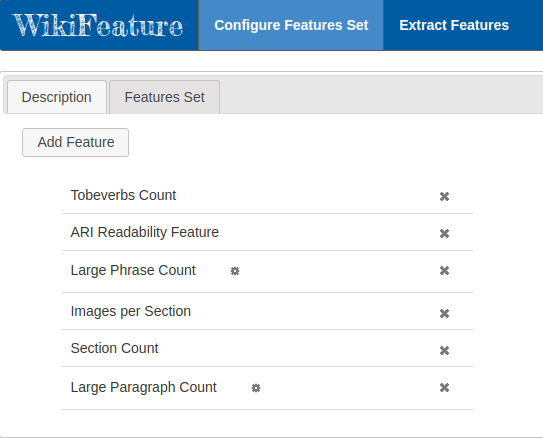
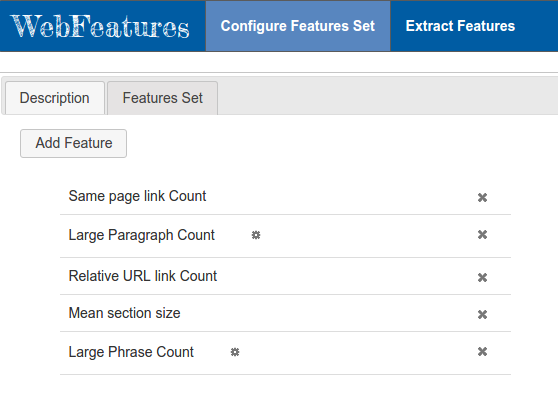
Correções pequenos bugs feature set

diff --git a/wiki-quality-web/templates/content/feature_set_update_insert.html b/wiki-quality-web/templates/content/feature_set_update_insert.html
@@ -27,7 +27,7 @@
   <div id="tabs-1">
   	<div class="col-md-6">	
   		{% if object.id %}
-  				<form id="updateFeatureForm" action="{% url "feature_set_edit" object.nam_feature_set %}" method="post">{% csrf_token %}
+  				<form id="updateFeatureForm" onsubmit="return false"  action="{% url "feature_set_edit" object.nam_feature_set %}" method="post">{% csrf_token %}
   			{% else %}
   				<form id="updateFeatureForm" onsubmit="return false" action="{% url "feature_set_insert" %}" method="post">{% csrf_token %}
   		{% endif %}
@@ -53,10 +53,10 @@
 	            {% endfor %}
 	            
 			<p>&nbsp;
-			Share the feature set. 
-			When checked, everyone can have access to this feature set by using the following link: <a id="anc" href="{% url "public_extract_features" user.get_username object.nam_feature_set %}">http://{{request.get_host}}/p/{{user.get_username}}/<span id="pub_feat_set_name">{{object.nam_feature_set}}</span></a></p>
+			Share the feature set. <span id="sharing_link" class="{%if not object.id %}invisible{%endif%}">Sharing link: <a id="anc" href="{% url "public_extract_features" user.get_username object.nam_feature_set %}">http://{{request.get_host}}/p/{{user.get_username}}/<span id="pub_feat_set_name">{{object.nam_feature_set}}</span></a></span></p>
 	    		<button type="submit" id="saveButton" class="ui-button ui-widget ui-corner-all">Save</button>
 	    		<input type="button" class="ui-button ui-widget ui-corner-all" onclick="cancelEditFeature()" value = "Cancel" />
+			<input type="hidden" value="{{object.nam_feature_set}}" id="last_saved_name">
 		</form>
 	</div>
 </div>
@@ -67,14 +67,14 @@
   
   <!-- form create/update via ajax --> 
   <script>
-  		let href_button_clicked = "";
-
-		$("#id_nam_feature_set").keyup(function(){
-			let strFeatureSetName = $("#id_nam_feature_set")[0].value;
+  		function changeShareURL(){
+  			let strFeatureSetName = $("#id_nam_feature_set")[0].value;
 			$("#pub_feat_set_name").html(strFeatureSetName);
 			$("#anc")[0].href = "{% url "public_extract_features" user.get_username "" %}"+strFeatureSetName;
-			
-		}); 
+  		}
+  		let href_button_clicked = "";
+
+
 		
   		$("#updateFeatureForm").change(function() {
 		   $("#updateFeatureForm").data("changed",true);
@@ -154,23 +154,22 @@
   		});
   		
 		function salveData(){
-			let idNamFeaturesSet = "{{object.nam_feature_set}}";
+			let idNamFeaturesSet = $("#last_saved_name")[0].value;
 		  	let arrElementsFeatureSet = [];
 		  	let arrCreateElementsFeatureSet = [];
 		  	
 			arrElementsFeatureSet.push({"id_nam_feature_set":idNamFeaturesSet,"nam_feature_set": $('#id_nam_feature_set').val(),"dsc_feature_set":$('#id_dsc_feature_set').val(), "language":$('#id_language').val()});
 			arrCreateElementsFeatureSet.push({"nam_feature_set": $('#id_nam_feature_set').val(),"dsc_feature_set":$('#id_dsc_feature_set').val(), "language":$('#id_language').val()});
 		
-			{% if object.id %}
+			if(boolSave){
 				
 				updateFeatureSet(arrElementsFeatureSet);
 				
-				{% else %}
+			}else{
 				createFeatureSet(arrCreateElementsFeatureSet);
 	  			boolSave = true;	  		
-	  			
-	  		{% endif %}	
-		}
+	  		}		
+	 	}
 		  		
 	  	$( "#saveButton" ).click(function() {
 	  		salveData();
@@ -183,8 +182,12 @@
 				  type: "POST",
 			  	  data: { "arrCreateElementsFeatureSet" : JSON.stringify(arrCreateElementsFeatureSet)},
 				  success: function(response) {
-				  		let name_feature = response.arrCreateFeatureSet;
+				  		$("#last_saved_name")[0].value = response.arrCreateFeatureSet["nam_feature_set"];
 				  		gUsedFeaturesNames = {};
+				  		changeShareURL();
+				  		alert("Feature set description saved");
+				  		$("#sharing_link").removeClass("invisible");
+				  		
 				  },
 				  error: function(xhr,status,error){
 				  		alert("An error occured when trying to save the new configurations:\n"+error);
@@ -200,6 +203,8 @@
 			  	  data: { "arrEditElementsFeatureSet" : JSON.stringify(arrElementsFeatureSet)},
 				  success: function(response) {
 				  		console.log("It is working");
+				  		changeShareURL();
+				  		alert("Feature set description saved");
 				  },
 				  error: function(xhr,status,error){
 				  		alert("An error occured when trying to save the new configurations:\n"+error);

diff --git a/wiki-quality-web/templates/content/dataset_list.html b/wiki-quality-web/templates/content/dataset_list.html
@@ -11,12 +11,11 @@
 		<div id="modal"></div>
 		<div id="feature_set_list">
 			{% if feature_set_to_use and feature_set_to_use != "NOT_FOUND" %}
-				<h2>Feature set: {{ feature_set_to_use.nam_feature_set }} </h2>
 				
-				<p><label>Language: </label><span>feature_set_to_use.language.value</span></p>
+				<p><label>Language: </label><span> {{ feature_set_to_use.language.value }}</span></p>
 				
-				<label>Description/Parameters: </label>
-				<p id="feature-description">
+				<label>Description: </label>
+				<span id="feature-description">
 					{{ feature_set_to_use.dsc_feature_set }}
 				</p>
 				
@@ -24,7 +23,7 @@
 					<table>
 					<tr>
 						<th>Feature Name</th>
-						<th>Description</th>
+						<th>Description/Parameters</th>
 					</tr>
 						{% for feature in feature_set_to_use.arr_features|dictsort:"ord_feature" %}
 						<tr>
@@ -36,7 +35,7 @@
 															<label>Parameters:</label> 
 															<p class="paramTableDataset"> 
 															{% for param in feature.arr_param %} 
-																<span><strong>{{ param.nam_argument }}</strong>: {{ param.val_argument }}</span> 
+																<span><strong>{{ param.nam_argument }}</strong>: {{ param.val_argument }}</span>{% if param.dsc_argument %} <span title="{{ param.dsc_argument }}" class="ui-icon ui-icon-help"></span> {% endif %}
 															{% endfor %}
 															</p> 
 														{% endif %}
@@ -67,11 +66,20 @@
 					{% endifequal %}
 					<div>
 						{% if field.label == "Feature set" and feature_set_to_use and feature_set_to_use != "NOT_FOUND"%}
+						
 						  <button id="show_featureset" class="right-ico ui-button ui-widget ui-corner-all">
 						    <span class="btnTextLeft">{{ feature_set_to_use.nam_feature_set }}</span><span class="ui-icon ui-icon-search"></span> 
 						  </button>
+						  <input type="hidden" value="{{feature_set_to_use.id}}" id="{{field.id_for_label}}" name="{{field.html_name}}">
+						  <input type="hidden" value="{{feature_set_to_use.nam_feature_set}}" id="featureSetName" name="featureSetName">
 							
 							
+							{% if not feature_set_to_use.bol_is_public %}
+								<p class="ui-state-highlight ui-corner-all">
+								<span class="ui-icon ui-icon-info"></span>
+									This feature set is not public. If you want to share this feature set, please check this option <a href="{% url "feature_set_edit" feature_set_to_use.nam_feature_set%}">in the configuration of this feature set</a>.
+								</p>
+							{% endif %}
 						{% else %}
 							{% if field.label == "Feature set" and feature_set_to_use == "NOT_FOUND" %}
 								<script>
@@ -124,7 +132,11 @@
 						<td></td>
 					{% endifequal %}
 					<td>
-						<form action="{% url "dataset_delete" dataset.id %}" method="post">
+						{% if feature_set_to_use %}
+							<form action="{% url "dataset_delete_public" feature_set_to_use.username feature_set_to_use.nam_feature_set dataset.id%}" method="post">
+						{% else %}
+							<form action="{% url "dataset_delete" dataset.id %}" method="post">
+						{% endif %}
 							{% csrf_token %}
          					<button class="btn btn-danger" id="delete">Delete</button>
          				</form>

diff --git a/wiki-quality-web/wqual/static/js/insert_used_feature.js b/wiki-quality-web/wqual/static/js/insert_used_feature.js
@@ -231,7 +231,10 @@ function insert_feature_is_configurable(arrParams, idDivForms, featureName, used
 		
 		let HTMLEl_temp_label = document.createElement('span');
 		let HTMLEl_temp_value_argument = document.createElement('input');
-				
+		let elDscArgument = document.createElement('p');
+		$(elDscArgument).addClass("infobox");
+		$(elDscArgument).addClass("ui-corner-all");
+		let bolHasDscArgument = false;
 		for(key in arrParams[foreignKey]){
 			
 			if(key == 'id'){
@@ -246,8 +249,11 @@ function insert_feature_is_configurable(arrParams, idDivForms, featureName, used
 				val_argument = arrParams[foreignKey][key];		
 			}
 			
-			if(key == 'desc_argument'){
-				HTMLEl_temp_value_argument.title = arrParams[foreignKey][key];		
+			if(key == 'dsc_argument'){
+				elDscArgument.innerHTML = arrParams[foreignKey][key];
+				if(arrParams[foreignKey][key].trim().length > 0){
+					bolHasDscArgument = true;
+				}		
 			}
 			
 			if(key == 'type_argument'){
@@ -288,6 +294,9 @@ function insert_feature_is_configurable(arrParams, idDivForms, featureName, used
 		HTMLEl_temp_label.setAttribute('class', 'labelForm');
 		
 		HTMLEl_temp_form.appendChild(HTMLEl_temp_label);
+		if(bolHasDscArgument){
+			HTMLEl_temp_form.appendChild(elDscArgument);
+		}
 		HTMLEl_temp_form.appendChild(HTMLEl_temp_value_argument);
 	}	
 		HTMLEl_temp_form.appendChild(HTMLEl_temp_space);

diff --git a/wiki-quality-web/templates/bases/base_main_site.html b/wiki-quality-web/templates/bases/base_main_site.html
@@ -10,7 +10,7 @@
     <script src="{% static "js/jquery.min.js" %}"></script>
     <script src="{% static "js/jquery-ui.js" %}"></script>
     <script src="{% static "js/jquery-ui.min.js" %}"></script>
-	<script src="{% static "js/featureSetConfigUpdate.js" %}">
+	<script src="{% static "js/featureSetConfigUpdate.js" %}"></script>
     <script src="{% static "js/wqual.js" %}"></script>
     <link rel="stylesheet" href="{% static "css/wikiQuality.css" %}">
 	<link href="https://fonts.googleapis.com/css?family=Fredericka+the+Great" rel="stylesheet">
@@ -30,7 +30,7 @@
                     <span class="icon-bar"></span>
                     <span class="icon-bar"></span>                
                 </button>                
-                <a href="{% url "home" %}" class="navbar-brand">WikiFeature</a>
+                <a href="{% url "home" %}" class="navbar-brand">WebFeatures</a>
             </div>
             
             <div id="menu" class="collapse navbar-collapse">

diff --git a/wiki-quality-web/templates/content/used_features.js b/wiki-quality-web/templates/content/used_features.js
@@ -28,7 +28,7 @@ let arr_isConfigurable_form = new Array();
 		is_configurable = {% if arg.is_configurable %}true{%else %}false{% endif %};
 		
 		if( is_configurable){
-			arrParams.push({ 'id' : "{{ arg.id }}" , 'nam_argument' : "{{ arg.nam_argument }}",'val_argument' : "{{ arg.val_argument }}", 'desc_argument' : "{{ arg.desc_argument }}", 'type_argument' : "{{ arg.type_argument }}"});
+			arrParams.push({ 'id' : "{{ arg.id }}" , 'nam_argument' : "{{ arg.nam_argument }}",'val_argument' : "{{ arg.val_argument }}", 'dsc_argument' : "{{ arg.dsc_argument }}", 'type_argument' : "{{ arg.type_argument }}"});
 		}		
 					
 	{% endfor %}

diff --git a/wiki-quality-web/wqual/static/js/dataset_list.js b/wiki-quality-web/wqual/static/js/dataset_list.js
@@ -26,7 +26,7 @@ $(document).ready(function() {
 		//Se o tamanho (em bytes) do arquivo for maior que o limite, adiciona uma mensagem e impede o submit.
 		if($("#dataset-file-input").val() != '') {
 			if($("#dataset-file-input")[0].files[0].size > 10*(1024*1024)) {
-				$('.dataset-error-container').append("<p>The file's size is higher than the limit.</p>");
+				$('.dataset-error-container').append("<p>The file's size is higher than the limit (10 MB).</p>");
 				ImpedirSubmit = 'V';
 			}
 		}

diff --git a/wiki-quality-web/wqual/static/css/wikiQuality.css b/wiki-quality-web/wqual/static/css/wikiQuality.css
@@ -1,3 +1,21 @@
+.invisible{
+	display:none;
+}
+.infobox{
+	padding: .7em .7em;
+	font-size: 8pt;
+	text-align:justify;
+	background-color:#f6f6fd;	
+}
+.ui-state-highlight{
+	padding: .7em .7em;"
+	font-size: 8pt;
+	text-align:justify;
+}
+.ui-state-highlight a{
+	color: blue;
+	text-decoration: underline;
+}
 .navbar-default {
   background-color: #005ca3;
   border-color: #5b5b5b;

diff --git a/wiki-quality-web/wqual/static/js/modal_dataset.js b/wiki-quality-web/wqual/static/js/modal_dataset.js
@@ -11,6 +11,9 @@ $(document).ready(function() {
 	});
 	$("#show_featureset").click( function() {
 						$("#feature_set_list").dialog("open");
+						let strDialogName = $("#featureSetName")[0].value;
+						
+						$("#feature_set_list").dialog('option', 'title', "Feature set: "+strDialogName);
 						return false;
 					}
 					);

diff --git a/wiki-quality-web/wqual/static/js/wqual.js b/wiki-quality-web/wqual/static/js/wqual.js
@@ -1,4 +1,4 @@
-$( function() {
+/*$( function() {
 	var dialog;
 		  
 	    dialog = $( "#add-form" ).dialog({
@@ -15,9 +15,5 @@ $( function() {
 	    $( "#Cancel" ).button().on( "click", function() {
 	      dialog.dialog( "close" );
 	    });
-} );
 
-function itemSelecionado(strIdItem){
-	alert(strIdItem);
-
-}
+} );*/

diff --git a/wiki-quality-web/templates/content/signup.html b/wiki-quality-web/templates/content/signup.html
@@ -2,8 +2,7 @@
 
 {% block content %}
 		<section class="home_sign-up_section">
-			{% if not user.is_authenticated %}
-				<h1 class="home_sign-up_h1">WikiQuality</h1>
+				<h1 class="home_sign-up_h1">WebFeatures</h1>
 				<form method="post">
 					{% csrf_token %}
 					<section class="signup-error-container">

diff --git a/wiki-quality-web/templates/content/home.html b/wiki-quality-web/templates/content/home.html
@@ -4,7 +4,7 @@
 {% block content %}
 		<section class="home_sign-up_section">
 			{% if not user.is_authenticated %}
-				<h1 class="home_sign-up_h1">WikiQuality</h1>
+				<h1 class="home_sign-up_h1">WebFeatures</h1>
  				<form method="post">
  			 		{% csrf_token %}
  			 		{% for field in form %}		 			

diff --git a/wiki-quality-web/wqual/views/uploaded_datasets.py b/wiki-quality-web/wqual/views/uploaded_datasets.py
@@ -14,13 +14,10 @@ import zipfile
 
 from django.contrib.auth.mixins import LoginRequiredMixin
 from django.forms.utils import ErrorList
-from django.http import HttpResponse
 from django.http import HttpResponse, request
-from django.urls.base import reverse
-from django.urls.base import reverse
+from django.http.response import HttpResponseNotFound
+from django.urls.base import reverse, resolve
 from django.views.generic.base import View
-from django.views.generic.base import View
-from django.views.generic.edit import CreateView, DeleteView
 from django.views.generic.edit import CreateView, DeleteView
 
 from wqual.models import Dataset
@@ -28,7 +25,6 @@ from wqual.models.exceptions import FileSizeException, FileCompressionException
 from wqual.models.featureset_config import FeatureSet
 from wqual.models.uploaded_datasets import  Status, StatusEnum, DocumentText, \
     Document, DocumentResult
-from django.http.response import HttpResponseNotFound
 
 
 class DatasetDownloadView(LoginRequiredMixin, View):
@@ -125,7 +121,7 @@ class DatasetCreateView(LoginRequiredMixin, CreateView):
     def get_context_data(self, **kwargs):
         context = super(DatasetCreateView, self).get_context_data(**kwargs)
         #context['map_feathtml'] = UsedFeature.objects.get_html_features_name_grouped_by_featureset()
-        #context['form'].fields['combo'].queryset = FeatureSet.objects.filter(user=request.user)
+        context['form'].fields['feature_set'].queryset = FeatureSet.objects.filter(user=self.request.user)
         context['dataset_list'] = Dataset.objects.filter(user=self.request.user) if self.request.user.is_authenticated else []
         return context    
         
@@ -164,26 +160,39 @@ class DatasetCreateView(LoginRequiredMixin, CreateView):
 class DatasetCreateFromSharedFeaturesetView(DatasetCreateView):
     def get_context_data(self, **kwargs):
         context = super().get_context_data(**kwargs)
+        
         objFeatureSet = None
         try: 
-            objFeatureSet = FeatureSet.objects.get(bol_is_public=True,
-                                                  user__username=self.kwargs["user"],
-                                                  nam_feature_set=self.kwargs["nam_feature_set"])
+            query_dict = {"user__username":self.kwargs["user"],
+                          "nam_feature_set":self.kwargs["nam_feature_set"]}
+            #if the user is not the same, just search for public datasets
+            if(self.request.user.username != self.kwargs["user"]):
+                query_dict['bol_is_public'] = True 
+                
+            objFeatureSet = FeatureSet.objects.get(**query_dict)
+            if(not objFeatureSet.bol_is_public):
+                if(self.request.user != objFeatureSet.user):
+                    context['feature_set_to_use'] = "NOT_FOUND"
+                    return context
         #check if the feature set exists
         except FeatureSet.DoesNotExist:
+
             context['feature_set_to_use'] = "NOT_FOUND"
             return context
         
         arr_features = []
         for objUsedFeature in objFeatureSet.usedfeature_set.all():
             arr_features.append(objUsedFeature.get_features_with_params())
-        context['feature_set_to_use'] = {"nam_feature_set":objFeatureSet.nam_feature_set,
+        context['feature_set_to_use'] = {"id":objFeatureSet.id,
+                                        "nam_feature_set":objFeatureSet.nam_feature_set,
                                          "dsc_feature_set":objFeatureSet.dsc_feature_set,
                                          "language":objFeatureSet.language,
+                                         "username":self.kwargs["user"],
                                          "arr_features":arr_features
                                          }
         return context    
-                 
+    def get_success_url(self):
+        return reverse('public_extract_features',kwargs=self.kwargs)  
 
 class DatasetDelete(LoginRequiredMixin, DeleteView):
         '''
@@ -201,3 +210,13 @@ class DatasetDelete(LoginRequiredMixin, DeleteView):
         
         def get_success_url(self):
             return reverse('extract_features')
+class DatasetDeletePublic(DatasetDelete):
+        '''
+        Created on 2 mar de 2018
+        
+        @author: Daniel Hasan Dalip
+        Exclui um dataset.
+        '''
+    
+        def get_success_url(self):
+            return reverse('public_extract_features',kwargs={"user":self.kwargs["user"],"nam_feature_set":self.kwargs["nam_feature_set"]})          
